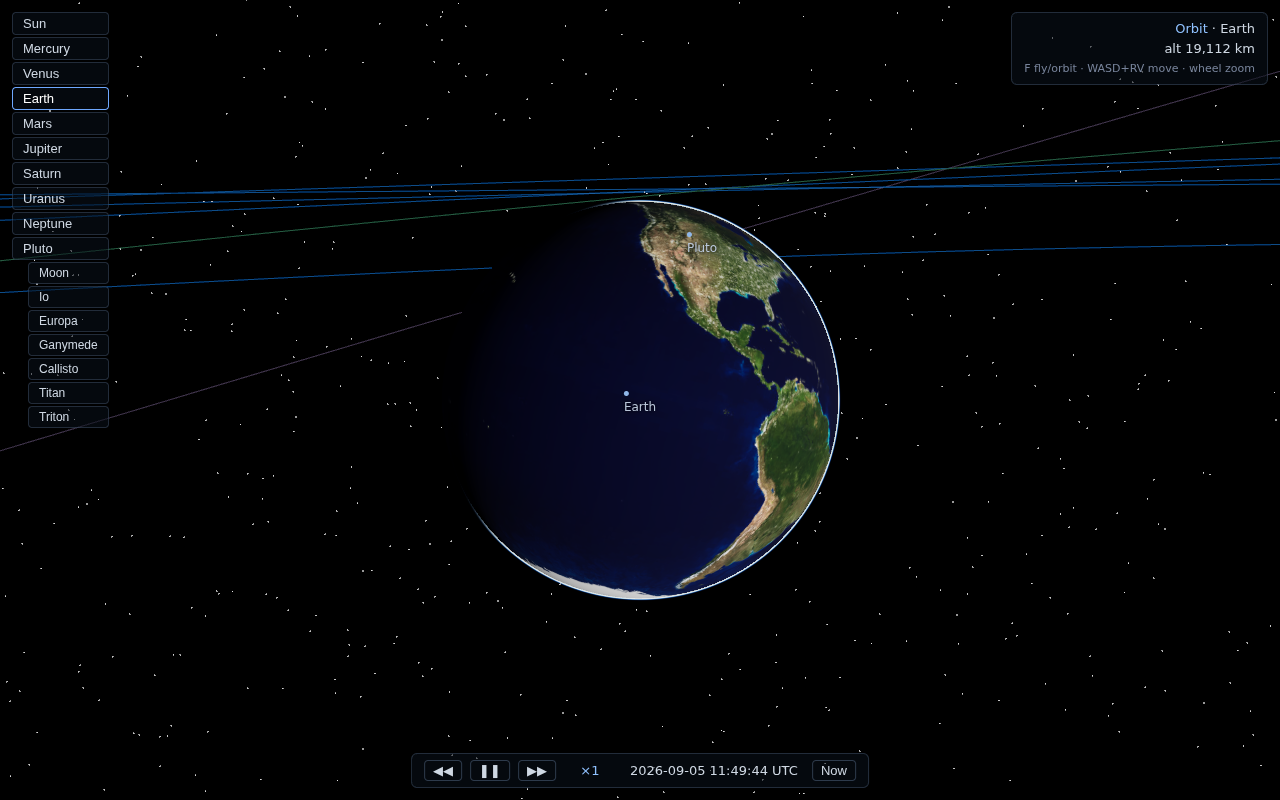
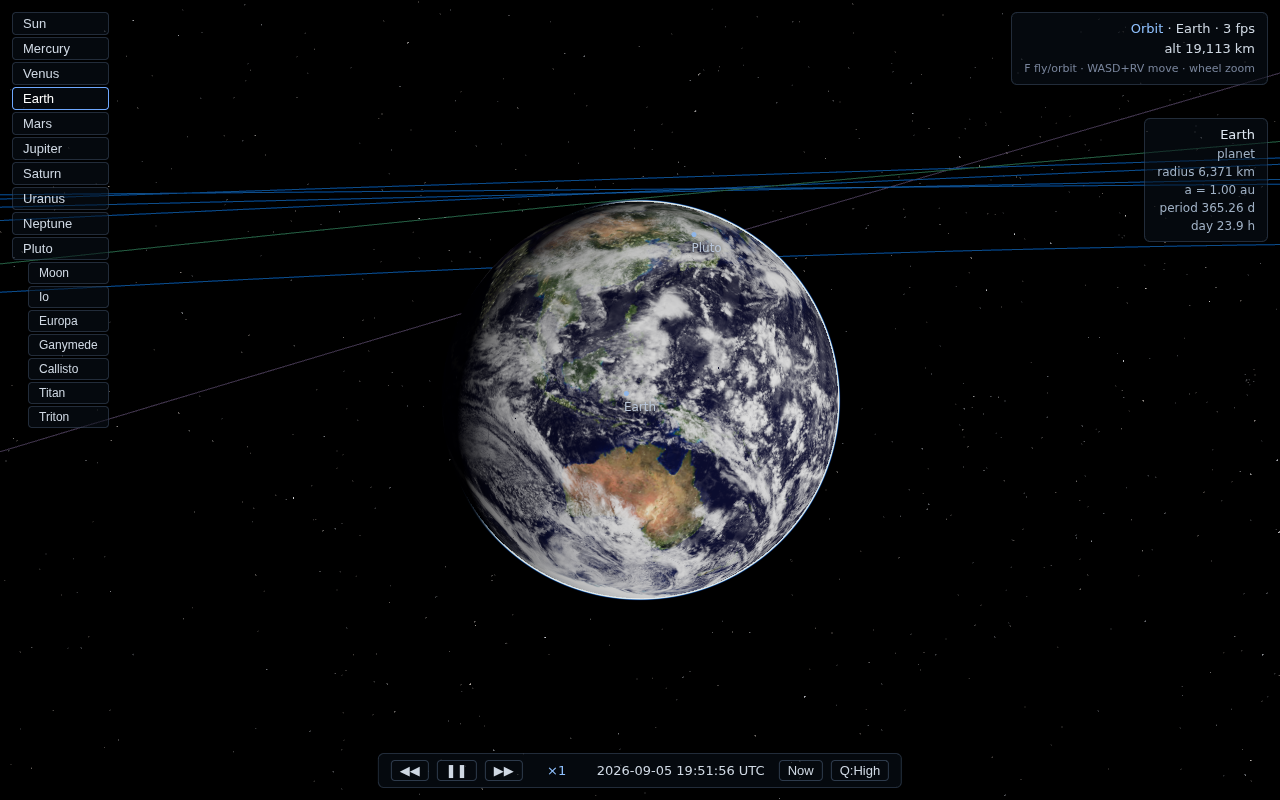
Update README for the fixed limitations, add verification table
Closes out the "honest limitations" list: real moon phases, Mercury's
texture, the Yale star catalog with daylight fading, Earth's clouds, and
eclipse/ring shadows are all in. What remains is stated plainly — Kepler
propagation drifts away from the J2000 epoch, and the WebGPU terrain path's
speed is unverified on real hardware.

Adds a table of what each verify-*.mjs script checks, plus night-sky and
lunar-eclipse screenshots.

Claude-Session: https://claude.ai/code/session_01SoM2FNm8hsujHzWGvn7WoF

diff --git a/README.md b/README.md
@@ -9,27 +9,37 @@ surfaces — no loading screens.
 |---|---|
 | ![Earth from orbit](docs/screenshots/earth-orbit.png) | ![Saturn](docs/screenshots/saturn.png) |
 | ![Earth at night](docs/screenshots/earth-night.png) | ![Standing on Earth](docs/screenshots/earth-surface.png) |
+| ![Night sky from the ground](docs/screenshots/night-sky.png) | ![Total lunar eclipse](docs/screenshots/lunar-eclipse.png) |
 
 ## Features
 
 - **Real Solar System** — 8 planets, Pluto, the Moon, the Galilean moons,
-  Titan and Triton, positioned by the JPL approximate planetary elements
-  (J2000 + centennial rates) through an analytic Kepler solver. Time warp
-  from real time to ±10,000,000×.
+  Titan and Triton. Planets follow the JPL approximate planetary elements
+  (J2000 + centennial rates); moons use osculating elements pulled from the
+  JPL Horizons API at J2000, so lunar phases and moon positions are real.
+  Time warp from real time to ±10,000,000×.
 - **Seamless scale** — camera-relative rendering with f64 positions on the
   CPU (the render world is origin-rebased to the focused body), reversed
   logarithmic depth, dynamic near plane. Fly from the Sun to Pluto and land
   on the Moon with zero jitter.
-- **Landable planets** — cube-sphere quadtree LOD terrain generated in a
-  Web Worker pool: real albedo textures (NASA / Solar System Scope) plus a
-  deterministic simplex-fBm heightfield with a meter-scale detail spectrum.
-  The camera is clamped a few meters above the real ground.
+- **Landable planets** — cube-sphere quadtree LOD terrain: real albedo
+  textures (NASA / Solar System Scope) plus a deterministic simplex-fBm
+  heightfield with a meter-scale detail spectrum.
+  The camera is clamped a few meters above the real ground. Chunk meshes are
+  built either in a Web Worker pool or by a WebGPU compute shader — a startup
+  probe times both and picks the winner (`?gpugen` / `?cpugen` to force one).
 - **Atmospheres** — raymarched single-scattering (Rayleigh + Mie) for
   Earth, Mars, Venus and Titan, written in TSL so it compiles to both
   WebGPU and WebGL2. Blue sky and sunsets from the surface, glowing limb
   from orbit.
-- **Extras** — Saturn's rings, Earth's night-side city lights, HDR pipeline
-  with ACES tone mapping and bloom, orbit lines, body labels and info panel.
+- **Real night sky** — the Yale Bright Star Catalog (9110 stars) placed by
+  RA/Dec, sized by magnitude and tinted from B-V. Stars fade out inside a
+  sunlit atmosphere, so daylight hides them and the night side keeps them.
+- **Eclipses** — analytic solar-disc occlusion darkens the Moon during a
+  lunar eclipse and dims the ground under a solar one. Saturn's rings cast a
+  shadow on the planet and the planet casts one back across the rings.
+- **Extras** — Earth's clouds and night-side city lights, HDR pipeline with
+  ACES tone mapping and bloom, orbit lines, body labels and info panel.
 
 ## Running
 
@@ -65,8 +75,10 @@ src/
                atmosphere parameters for every body
   render/      WebGPURenderer wrapper, HDR + ACES + bloom
   scene/       per-body views (impostor sphere ↔ terrain), origin rebasing,
-               orbit lines, labels, rings, sun glow
-  terrain/     cube-sphere quadtree, worker pool, shared heightfield
+               orbit lines, labels, rings, sun glow, starfield, eclipses,
+               ring shadows
+  terrain/     cube-sphere quadtree, worker pool, WGSL compute generator,
+               shared heightfield
   atmosphere/  TSL single-scattering shader
   camera/      orbit/fly rig with f64 offsets and terrain clamp
   ui/          HUD: body list, time bar, status and info panels
@@ -81,27 +93,45 @@ Key invariants:
    octave cap does not depend on LOD level — so chunk borders match exactly
    across levels (verified by unit tests) and the camera clamp agrees with
    the rendered geometry.
+3. Noise inputs are rounded to f32 even on the CPU, so the worker path, the
+   WGSL kernel and the camera's terrain clamp all sample the same lattice.
 
 ## Verification
 
-`scripts/*.mjs` are Playwright checks used during development (headless
-Chromium, `?webgl` backend): fly-through Sun → Moon → Pluto, a Moon-surface
-jitter test comparing consecutive frames byte-for-byte, LOD descent
-screenshots, and a landing scenario (park at the subsolar point, pitch to
-the horizon, fly forward against the terrain clamp).
+Unit tests (`npm test`) cover the Kepler solver against real positions and
+phases, chunk-border continuity across LOD levels and cube faces, and the
+eclipse geometry.
+
+`scripts/verify-*.mjs` are Playwright checks run during development (headless
+Chromium):
+
+| script | what it checks |
+|---|---|
+| `verify-m2` | fly-through Sun → Moon → Pluto |
+| `verify-jitter` | consecutive frames byte-identical 5 km above the Moon |
+| `verify-m3` | LOD descent screenshots |
+| `verify-m4` | landing: park, pitch to the horizon, fly against the clamp |
+| `verify-stars` | star field in space, at night, and hidden by daylight |
+| `verify-shadows` | lunar eclipse darkening, Saturn ring/planet shadows |
+| `verify-gpu-terrain` | WGSL output vs the CPU reference, plus timings |
 
 ## Honest limitations / roadmap
 
-- Moon orbital phases are approximate (arbitrary epoch anomalies for most
-  moons); planet positions are good to visualization accuracy (degrees).
-- No eclipse/ring shadows, no clouds, no galaxy beyond a placeholder
-  starfield; Mercury still lacks a texture.
-- Terrain generation is CPU-worker based; a WebGPU compute path and KTX2
-  texture compression are the next performance steps.
+- Orbits are unperturbed two-body Kepler propagation from J2000 elements, so
+  events drift with time: the January 2000 total lunar eclipse lands within
+  ~14 hours of the real one, and the error grows for dates far from the
+  epoch. Good enough to look right, not an ephemeris.
+- The WebGPU terrain path is verified *correct* (it matches the CPU
+  reference to 1.8 m) but its speed is untested on real GPU hardware — the
+  development container only offers software WebGPU (SwiftShader), which is
+  why the engine benchmarks at startup instead of assuming.
+- No volumetric clouds, no galaxy beyond the star catalog, no atmospheric
+  multiple scattering. KTX2 texture compression is still on the list.
 
 ## Attribution
 
-Textures: NASA (Blue Marble, Black Marble, LROC) — public domain; Solar
-System Scope planet textures — CC BY 4.0. See
+Textures: NASA (Blue Marble, Black Marble, cloud composite, LROC) — public
+domain; Solar System Scope planet textures — CC BY 4.0. See
 `public/textures/ATTRIBUTION.md`. Orbital elements: JPL "Approximate
-Positions of the Planets".
+Positions of the Planets" and the JPL Horizons API. Stars: Yale Bright Star
+Catalog, 5th Revised Edition.
